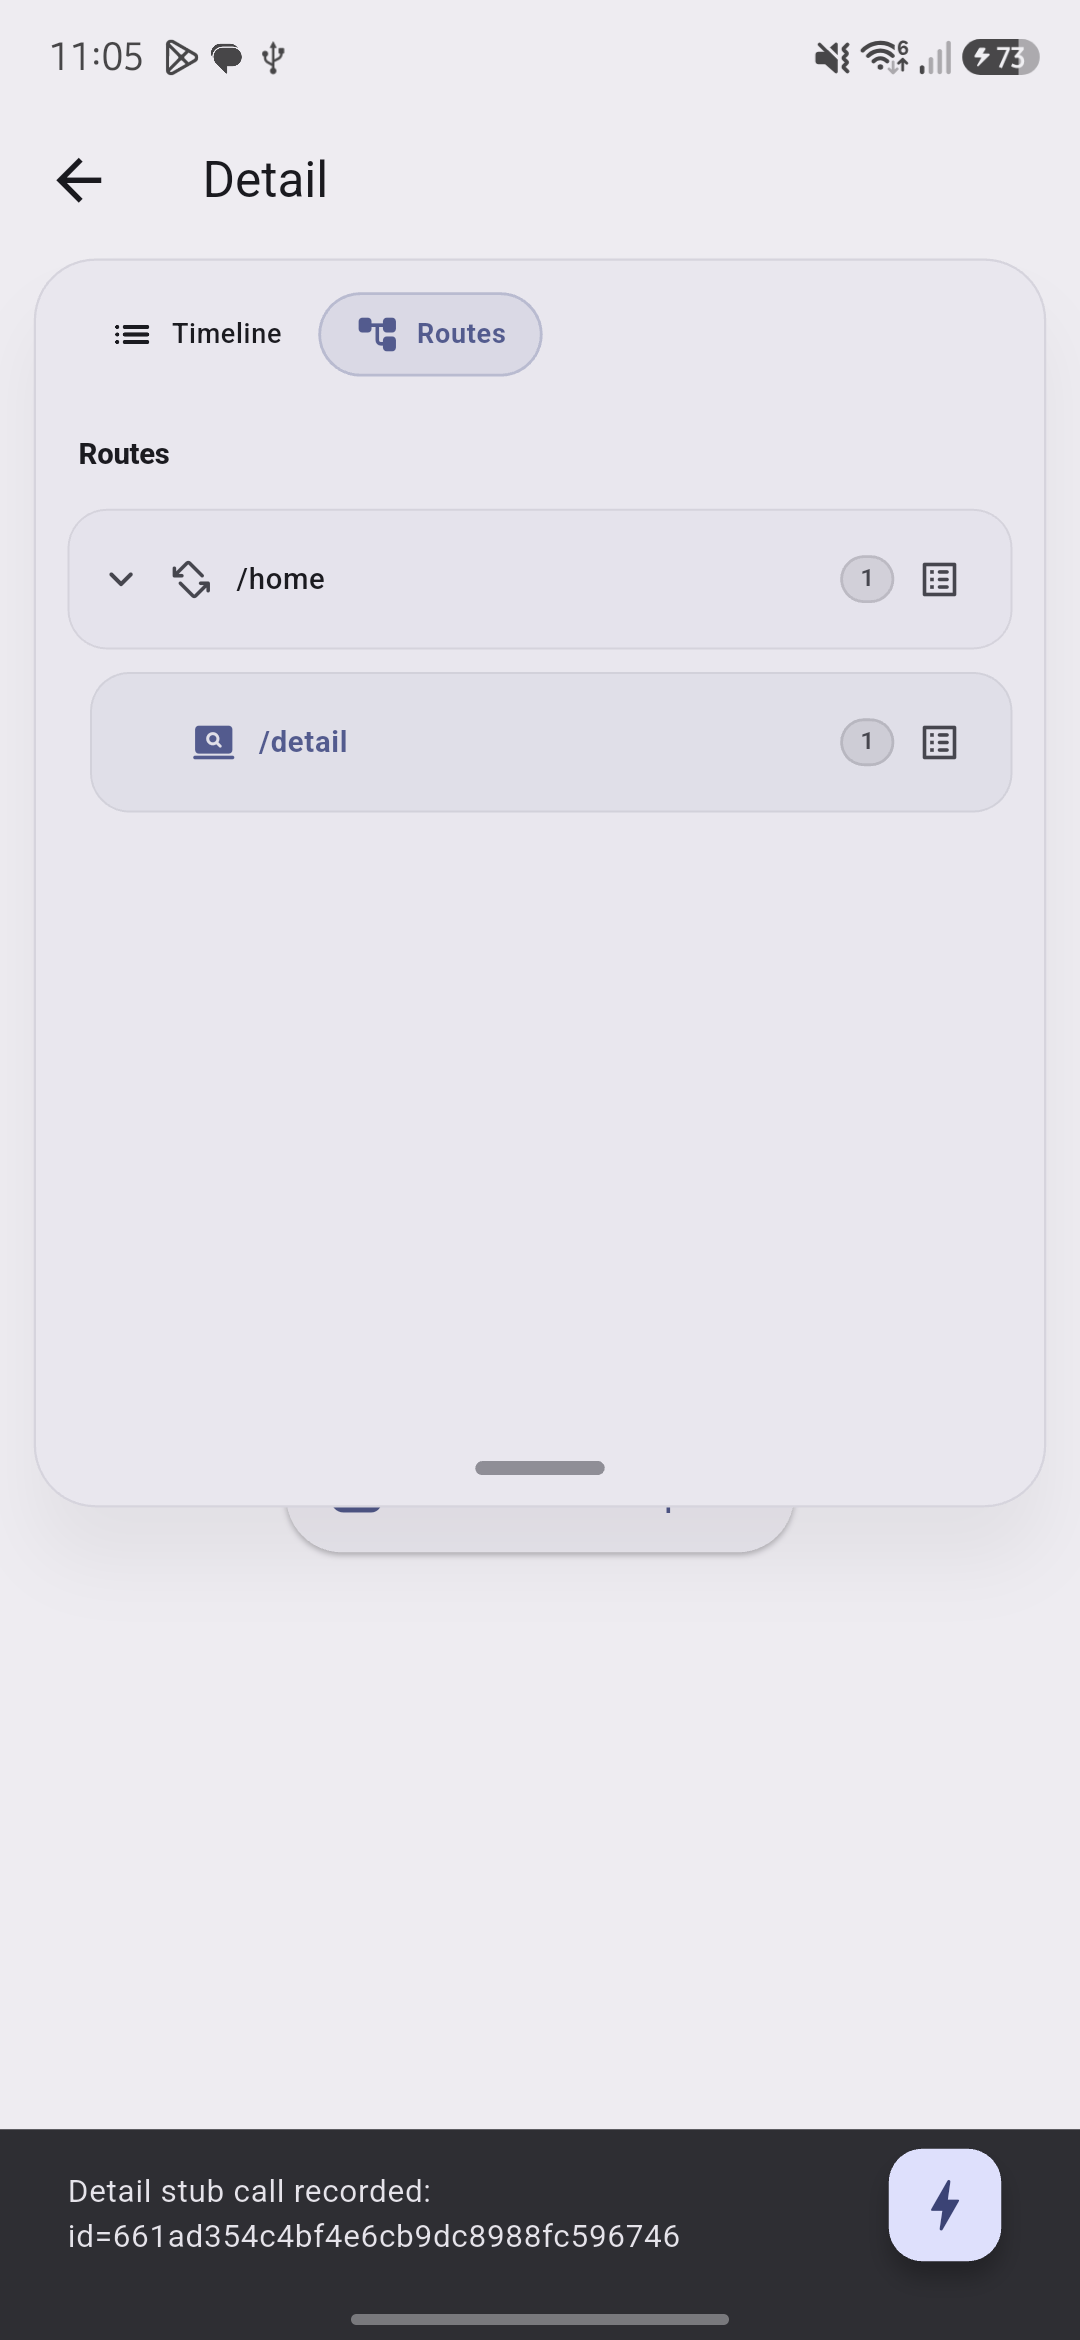
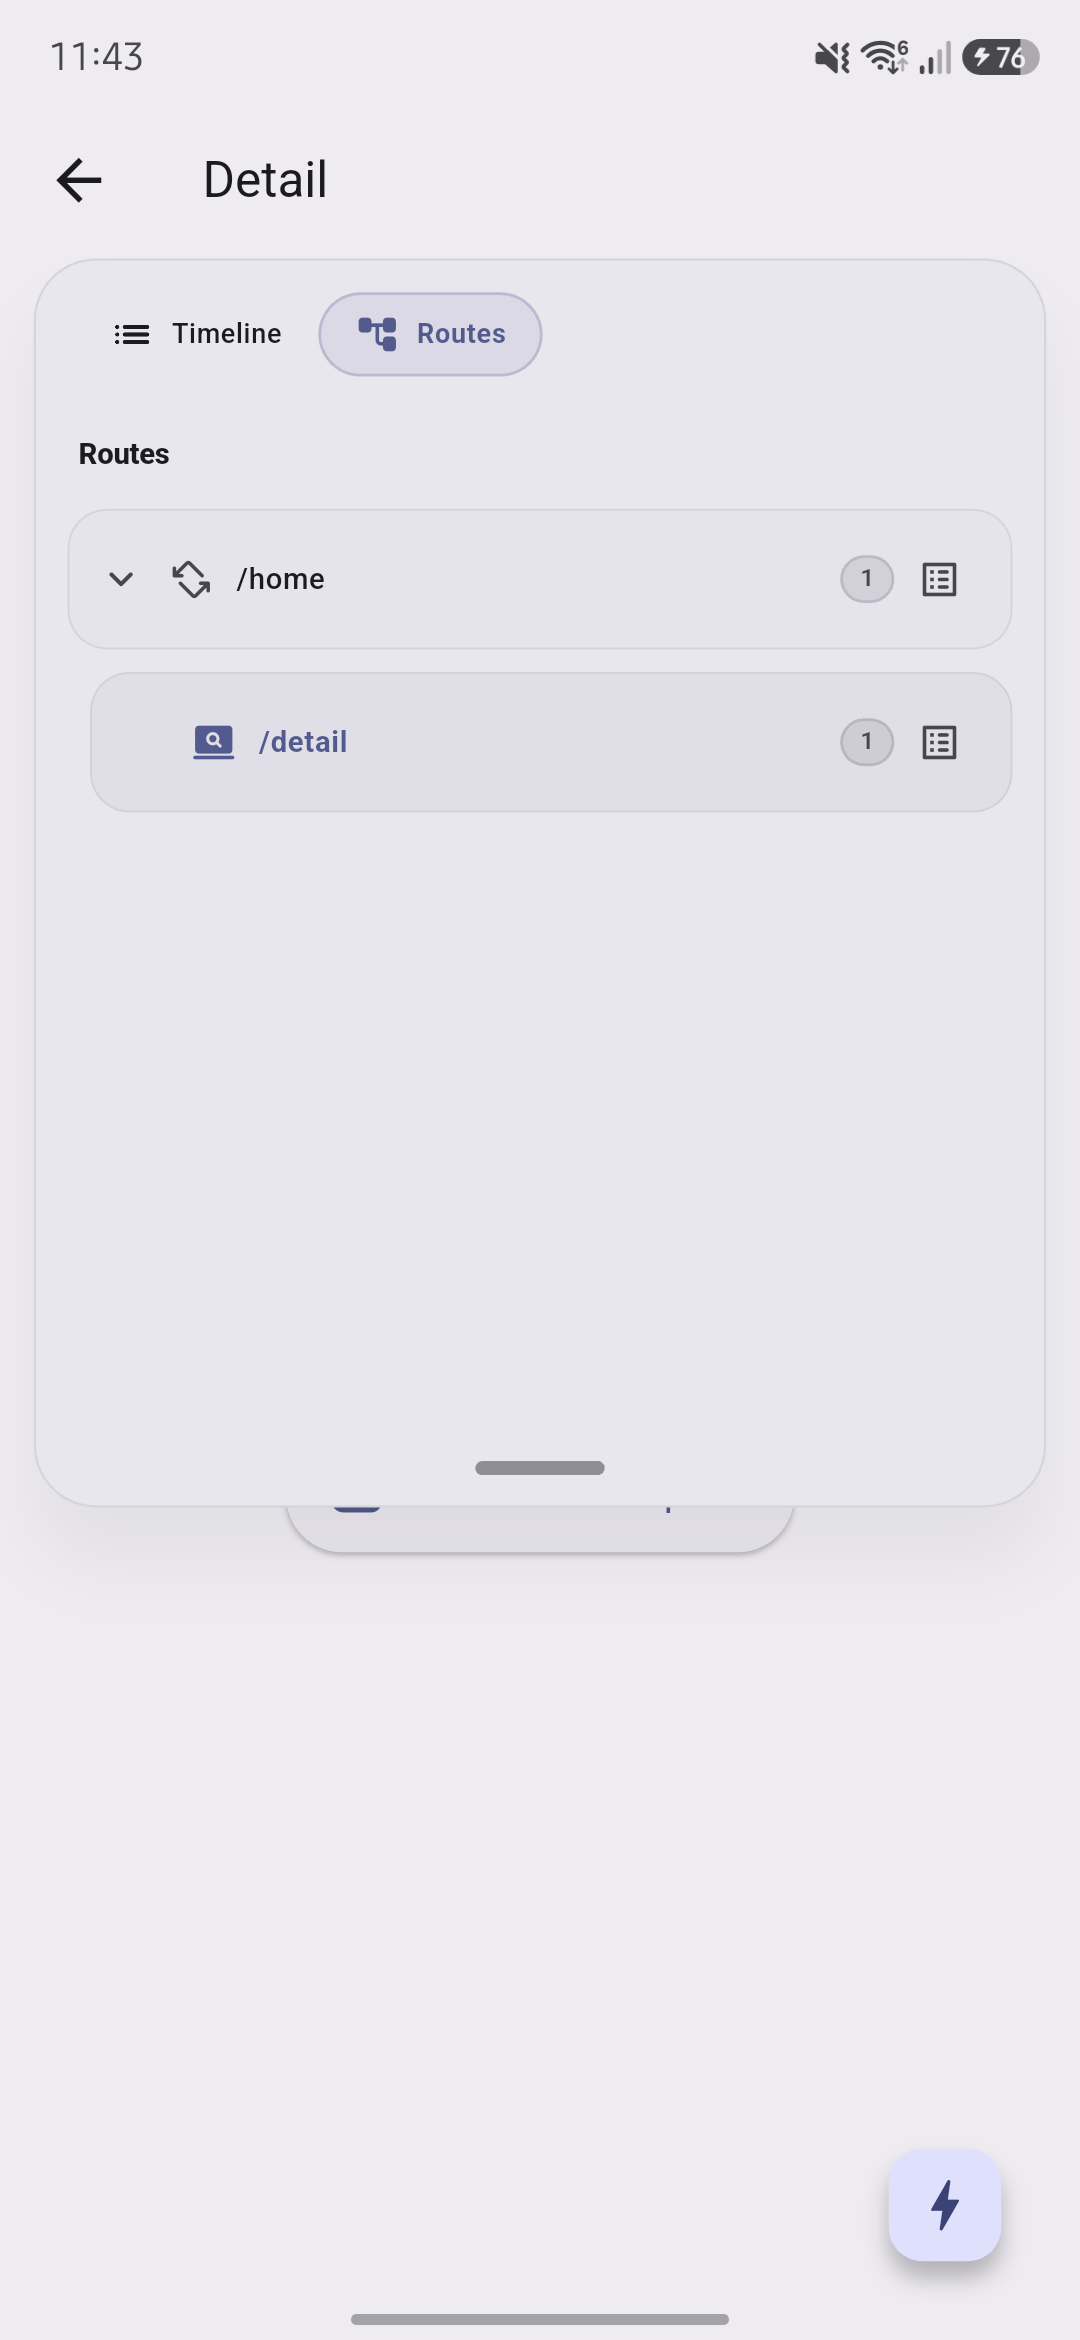
fix: clear host snackbars when opening inspector

diff --git a/lib/src/overlay/api_trace_overlay.dart b/lib/src/overlay/api_trace_overlay.dart
@@ -108,6 +108,11 @@ class _ApiTraceOverlayState extends State<ApiTraceOverlay> {
   /// been opened; the first open computes the default.
   double? _panelHeight;
 
+  // Host-app SnackBars are visually disruptive if one is active
+  // when the inspector opens, because the app's ScaffoldMessenger
+  // can paint it over the floating modal. Opening the inspector
+  // clears any current host SnackBar first.
+
   @override
   Widget build(BuildContext context) {
     // REQ-UI-001: kDebugMode guard. In release builds
@@ -141,7 +146,7 @@ class _ApiTraceOverlayState extends State<ApiTraceOverlay> {
               behavior: HitTestBehavior.opaque,
               onTap: () {
                 setState(() {
-                  _open = false;
+                  _setOpen(false);
                 });
               },
               child: ColoredBox(
@@ -174,7 +179,7 @@ class _ApiTraceOverlayState extends State<ApiTraceOverlay> {
                       onClear: ApiTrace.timeline.clear,
                       onClose: () {
                         setState(() {
-                          _open = false;
+                          _setOpen(false);
                         });
                       },
                       selectedScopeId: _selectedScopeId,
@@ -241,7 +246,7 @@ class _ApiTraceOverlayState extends State<ApiTraceOverlay> {
                         child: ApiTraceFab(
                           onPressed: () {
                             setState(() {
-                              _open = !_open;
+                              _setOpen(!_open);
                             });
                           },
                           config: widget.config,
@@ -269,6 +274,35 @@ class _ApiTraceOverlayState extends State<ApiTraceOverlay> {
     if (oldWidget.config.overlayPosition != widget.config.overlayPosition) {
       _fabPosition = null;
     }
+  }
+
+  void _setOpen(bool value) {
+    if (_open == value) return;
+    if (value) {
+      _suppressHostSnackBars();
+    }
+    _open = value;
+  }
+
+  void _suppressHostSnackBars() {
+    if (!mounted) return;
+
+    void removeSnackBar() {
+      final BuildContext? navigatorContext =
+          widget.navigatorKey?.currentContext;
+      final messenger = (navigatorContext != null
+              ? ScaffoldMessenger.maybeOf(navigatorContext)
+              : null) ??
+          ScaffoldMessenger.maybeOf(context);
+      messenger
+        ?..clearSnackBars()
+        ..removeCurrentSnackBar(reason: SnackBarClosedReason.hide);
+    }
+
+    removeSnackBar();
+    WidgetsBinding.instance.addPostFrameCallback((_) {
+      if (mounted) removeSnackBar();
+    });
   }
 
   static Offset _initialFabPosition(

diff --git a/test/overlay_test.dart b/test/overlay_test.dart
@@ -1406,6 +1406,35 @@ void main() {
       expect(errorDot(), findsNothing);
     });
 
+    testWidgets('opening the panel clears host app SnackBars', (tester) async {
+      await _pumpAppWithOverlay(
+        tester,
+        child: Builder(
+          builder: (BuildContext context) => Scaffold(
+            body: Center(
+              child: ElevatedButton(
+                onPressed: () {
+                  ScaffoldMessenger.of(context).showSnackBar(
+                    const SnackBar(content: Text('host snackbar')),
+                  );
+                },
+                child: const Text('Show snackbar'),
+              ),
+            ),
+          ),
+        ),
+      );
+
+      await tester.tap(find.text('Show snackbar'));
+      await tester.pump();
+      expect(find.text('host snackbar'), findsOneWidget);
+
+      await tester.tap(find.byType(FloatingActionButton));
+      await tester.pumpAndSettle();
+      expect(find.byKey(const ValueKey('inspectorPanel')), findsOneWidget);
+      expect(find.text('host snackbar'), findsNothing);
+    });
+
     testWidgets('tapping outside the panel closes it (scrim)', (tester) async {
       await _pumpAppWithOverlay(tester);
       await tester.tap(find.byType(FloatingActionButton));

diff --git a/README.md b/README.md
@@ -4,7 +4,7 @@
 [![Dart](https://img.shields.io/badge/Dart-%3E%3D3.6.0-blue.svg)](https://dart.dev)
 
 <p align="center">
-  <img src="https://raw.githubusercontent.com/Maxs22/flutter_api_inspector/v0.3.3/assets/demo.gif"
+  <img src="https://raw.githubusercontent.com/Maxs22/flutter_api_inspector/v0.3.4/assets/demo.gif"
        alt="flutter_api_inspector demo"
        width="360">
   <br>
@@ -12,13 +12,13 @@
 </p>
 
 <p align="center">
-  <img src="https://raw.githubusercontent.com/Maxs22/flutter_api_inspector/v0.3.3/assets/demo-timeline.png"
+  <img src="https://raw.githubusercontent.com/Maxs22/flutter_api_inspector/v0.3.4/assets/demo-timeline.png"
        alt="Timeline tab screenshot"
        width="220">
-  <img src="https://raw.githubusercontent.com/Maxs22/flutter_api_inspector/v0.3.3/assets/demo-routes.png"
+  <img src="https://raw.githubusercontent.com/Maxs22/flutter_api_inspector/v0.3.4/assets/demo-routes.png"
        alt="Routes tab screenshot"
        width="220">
-  <img src="https://raw.githubusercontent.com/Maxs22/flutter_api_inspector/v0.3.3/assets/demo-endpoints.png"
+  <img src="https://raw.githubusercontent.com/Maxs22/flutter_api_inspector/v0.3.4/assets/demo-endpoints.png"
        alt="Route endpoints screenshot"
        width="220">
 </p>
@@ -50,7 +50,7 @@ Add the dependency:
 
 ```yaml
 dependencies:
-  flutter_api_inspector: ^0.3.3
+  flutter_api_inspector: ^0.3.4
 ```
 
 ### Option A — Automatic capture (recommended)

diff --git a/CHANGELOG.md b/CHANGELOG.md
@@ -6,6 +6,16 @@ and the project adheres to [Semantic Versioning](https://semver.org/).
 
 ## Unreleased
 
+## 0.3.4 — 2026-08-06
+
+### Fixed
+
+- **Inspector modal isolation**: opening the overlay now clears any active
+  host-app `SnackBar` so app notifications do not visually overlap the
+  inspector panel.
+- **Demo evidence**: regenerated the demo GIF/screenshots after the
+  SnackBar overlap fix.
+
 ## 0.3.3 — 2026-08-06
 
 ### Changed
